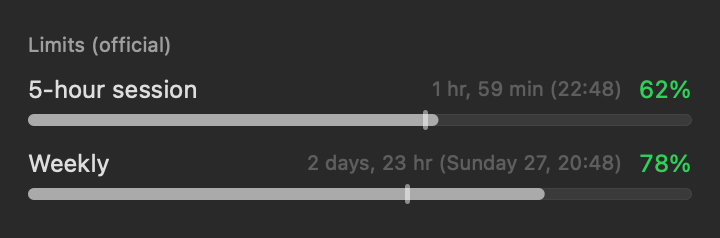
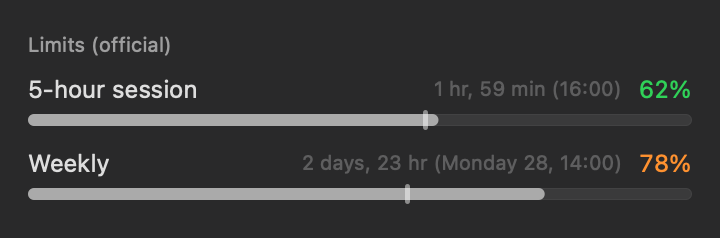
docs: cover usage recap, pace tier colors and save snapshots for 1.9.0
- New usage recap shots (en/ko/ja) rendered from the production RecapCard in
  ScreenshotGenTests, with Gen 1 graduates, plus a tour row in each README (#332).
- Pace-marker shots pick bar and percent colors with PaceTier like quotaRow does
  (#349); the pace row explains the six tiers.
- Settings shots gain automatic backup snapshots under Backup & Transfer (#330)
  and a per-account session key row under Advanced (#346); footer bumped to 1.9.0.
- "Also in the box" lists Pokedex search/filters (#329, #343) and save backups.

diff --git a/Tests/PokeTokenBarTests/ScreenshotGenTests.swift b/Tests/PokeTokenBarTests/ScreenshotGenTests.swift
@@ -148,6 +148,10 @@ final class ScreenshotGenTests: XCTestCase {
             let formatter = DateFormatter()
             formatter.locale = language.displayLocale
             formatter.setLocalizedDateFormatFromTemplate(resetIn <= 6 * 3600 ? "HHmm" : "EEEEdHHmm")
+            // quotaRow 와 같은 규칙으로 단계색을 고른다(#349) — 초록 고정이면 실제 UI 와 갈라진다.
+            let tier = PaceTier.tier(utilization: used, pace: pace, critThreshold: store.critThreshold)
+            let tint = tier?.color ?? .green
+            let percentTint = tier?.percentColor ?? .green
             return VStack(alignment: .leading, spacing: 2) {
                 HStack {
                     Text(name).font(.callout)
@@ -155,9 +159,9 @@ final class ScreenshotGenTests: XCTestCase {
                     (Text("\(reset, style: .relative)") + Text(" (\(formatter.string(from: reset)))"))
                         .font(.caption).foregroundStyle(.tertiary)
                     Text(TokenFormatter.percent(used))
-                        .font(.callout).monospacedDigit().foregroundStyle(Color.green)
+                        .font(.callout).monospacedDigit().foregroundStyle(percentTint)
                 }
-                LimitProgressBar(usedPercent: used, tint: .green, pace: pace)
+                LimitProgressBar(usedPercent: used, tint: tint, pace: pace)
             }
         }
 
@@ -194,6 +198,84 @@ final class ScreenshotGenTests: XCTestCase {
         rep.size = bounds.size
         host.view.cacheDisplay(in: bounds, to: rep)
         return try XCTUnwrap(rep.representation(using: .png, properties: [:]))
+    }
+
+    // MARK: 사용량 리캡
+
+    /// 끝난 한 주를 보여준다(일요일 저녁 기준) — 진행 중인 주는 "지금까지" 비교라 막대가 비어 보인다.
+    /// 졸업 칩은 1세대 진화 끝 종으로 채운다: 포크 풀 밖의 종을 보여주면 안 나오는 걸 광고하게 된다.
+    /// 리캡 카드는 AppKit 컨트롤이 없는 순수 SwiftUI 라 `ImageRenderer` 로 색까지 그대로 나온다.
+    @MainActor
+    func testGenerateUsageRecapScreenshots() throws {
+        guard let directory = ProcessInfo.processInfo.environment["PTB_SCREENSHOT_DIR"] else {
+            throw XCTSkip("PTB_SCREENSHOT_DIR 미지정 — 에셋 생성은 릴리스 때만 실행한다")
+        }
+        var calendar = Calendar(identifier: .gregorian)
+        calendar.timeZone = TimeZone(identifier: "UTC")!
+        calendar.firstWeekday = 2
+        func day(_ month: Int, _ day: Int, hour: Int = 12) -> Date {
+            calendar.date(from: DateComponents(year: 2026, month: month, day: day, hour: hour))!
+        }
+        let dayKey = LocalUsageReader.localDayFormatter(timeZone: calendar.timeZone)
+        // 이번 주(9/14 월–9/20 일)와 지난주 — 전주 대비 칩이 오르는 쪽으로 읽히게 이번 주를 더 크게 둔다.
+        let thisWeek = [4_200_000, 6_800_000, 3_100_000, 7_400_000, 5_200_000, 900_000, 1_600_000]
+        let lastWeek = [3_000_000, 4_100_000, 2_600_000, 5_000_000, 3_900_000, 0, 700_000]
+        var series = [DailyUsage]()
+        for (offset, tokens) in (lastWeek + thisWeek).enumerated() {
+            let key = dayKey.string(from: day(9, 7 + offset))
+            series.append(DailyUsage(date: key, inputTokens: 0, outputTokens: 0, cacheCreationTokens: 0,
+                                     cacheReadTokens: 0, totalTokens: tokens, totalCost: 0, costCoverage: .source))
+        }
+        var ledger = UsageLedger()
+        ledger.merge([DailyUsage(date: dayKey.string(from: day(9, 1)), inputTokens: 0, outputTokens: 0,
+                                 cacheCreationTokens: 0, cacheReadTokens: 0, totalTokens: 0, totalCost: 0,
+                                 costCoverage: .source)] + series)
+
+        func graduate(_ id: String, chain: [Int], names: [String: String], on date: Date,
+                      rarity: Rarity = .common, shiny: Bool = false) -> DexEntry {
+            DexEntry(id: id, baseID: chain[0], finalID: chain.last!, chainOrder: chain, rarity: rarity,
+                     caughtAt: date, isShiny: shiny, names: [chain.last!: names], releasedAt: nil)
+        }
+        let dex = [
+            graduate("lapras", chain: [131], names: ["en": "Lapras", "ko": "라프라스", "ja": "ラプラス"],
+                     on: day(9, 17), rarity: .rare),
+            graduate("gyarados", chain: [129, 130], names: ["en": "Gyarados", "ko": "갸라도스", "ja": "ギャラドス"],
+                     on: day(9, 15), shiny: true),
+            graduate("raichu", chain: [25, 26],
+                     names: ["en": "Raichu", "ko": "라이츄", "ja": "ライチュウ"], on: day(9, 18)),
+        ]
+        let dexJSON = String(decoding: try JSONEncoder().encode(dex), as: UTF8.self)
+
+        for (language, suffix) in [(AppLanguage.en, ""), (.ko, "-ko"), (.ja, "-ja")] {
+            let url = FileManager.default.temporaryDirectory.appendingPathComponent("recap-shot-\(UUID().uuidString).json")
+            defer { try? FileManager.default.removeItem(at: url) }
+            try Data(#"{"installBaselineSet":true,"usedSinceInstall":1000,"lastDate":"d","dex":\#(dexJSON)}"#.utf8)
+                .write(to: url)
+            let suite = "RecapShot-\(UUID().uuidString)"
+            let defaults = try XCTUnwrap(UserDefaults(suiteName: suite))
+            defer { defaults.removePersistentDomain(forName: suite) }
+            ledger.save(to: defaults)
+            let store = UsageStore(providers: [], autoRefresh: false, defaults: defaults)
+            let companion = CompanionStore(fileURL: url, defaults: defaults)
+            companion.setLanguage(language)
+            let content = RecapContent(store: store, companion: companion, scope: .week, offset: 0,
+                                       now: day(9, 20, hour: 21), calendar: calendar)
+            let view = RecapCard(content: content)
+                .padding(.horizontal, PopoverMetrics.padding)
+                .padding(.vertical, 16)
+                .frame(width: PopoverMetrics.width)
+                .background(Color(red: 41 / 255, green: 41 / 255, blue: 42 / 255))
+                .environment(\.colorScheme, .dark)
+                .environment(\.locale, language.displayLocale)
+            let renderer = ImageRenderer(content: view)
+            renderer.scale = 2
+            let image = try XCTUnwrap(renderer.nsImage)
+            let rep = try XCTUnwrap(image.tiffRepresentation.flatMap(NSBitmapImageRep.init(data:)))
+            let data = try XCTUnwrap(rep.representation(using: .png, properties: [:]))
+            let out = URL(fileURLWithPath: directory).appendingPathComponent("screenshot-usage-recap\(suffix).png")
+            try data.write(to: out)
+            print("wrote \(out.path) (\(data.count) bytes)")
+        }
     }
 
     @MainActor

diff --git a/scripts/gen-settings-screenshots.py b/scripts/gen-settings-screenshots.py
@@ -23,7 +23,7 @@ REPO = os.path.dirname(os.path.dirname(os.path.abspath(__file__)))
 OUT = os.path.join(REPO, "assets")
 TMP = os.path.join(REPO, "build")
 CHROME = "/Applications/Google Chrome.app/Contents/MacOS/Google Chrome"
-VERSION = "1.8.0"
+VERSION = "1.9.0"
 
 # ko, en, ja — Localization.swift 의 t(ko, en, ja, es) 순서에서 es 만 뺐다.
 S = {
@@ -114,6 +114,21 @@ S = {
                    "The key is stored in this Mac's app folder as an owner-only file (not encrypted). Logging out in your browser invalidates it immediately.",
                    "キーはこの Mac のアプリフォルダに本人のみ読み取り可能なファイルとして保存されます(暗号化なし)。ブラウザでログアウトすると即時無効になります。"),
  "orgLabel":      ("조직", "Organization", "組織"),
+ "perAcctNote":   ("기본 Claude 계정(~/.claude)에 적용됩니다. 다른 계정은 아래에서 각자 키를 넣을 수 있어요.",
+                   "Applies to the default Claude account (~/.claude). Each other account can have its own key below.",
+                   "デフォルトの Claude アカウント（~/.claude）に適用されます。ほかのアカウントは下でそれぞれキーを設定できます。"),
+ "acctKey":       ("work@example.com 세션 키", "Session key for work@example.com", "work@example.com のセッションキー"),
+ "acctKeyFolder": ("~/.claude-work", "~/.claude-work", "~/.claude-work"),
+ "snapTitle":     ("자동 백업 (스냅샷)", "Automatic Backups (Snapshots)", "自動バックアップ（スナップショット）"),
+ "snapHint":      ("진행 상태의 로컬 복원 지점을 즉시 저장해요 (최근 10개 보존)",
+                   "Saves an instant local restore point of your progress (keeps up to 10)",
+                   "現在の進行状況の復元ポイントを即座に保存します（最新10件を保持）"),
+ "snapBtn":       ("스냅샷 만들기", "Create snapshot", "スナップショットを作成"),
+ "restoreBtn":    ("복원", "Restore", "復元"),
+ "snap1Date":     ("2026. 9. 25. 오전 9:12", "Sep 25, 2026 at 9:12 AM", "2026/09/25 9:12"),
+ "snap1Meta":     ("도감 64마리 · 누적 1.2B", "Pokédex 64 · 1.2B lifetime", "図鑑 64匹 · 累計 1.2B"),
+ "snap2Date":     ("2026. 9. 24. 오후 8:40", "Sep 24, 2026 at 8:40 PM", "2026/09/24 20:40"),
+ "snap2Meta":     ("도감 63마리 · 누적 1.1B", "Pokédex 63 · 1.1B lifetime", "図鑑 63匹 · 累計 1.1B"),
  "orgValue":      ("회사 Team Plan", "Company Team Plan", "会社 Team Plan"),
  "save":          ("저장", "Save", "保存"),
  "delete":        ("삭제", "Delete", "削除"),
@@ -213,6 +228,14 @@ def html(lang, advanced=False):
     def sec(title):
         return f'<div class="sec">{title}</div>'
 
+    # 스냅샷 행의 컴패니언 썸네일 — 앱이 받아 둔 스프라이트 캐시를 그대로 쓴다(없으면 빈 칸).
+    def sprite(species_id):
+        path = os.path.expanduser(
+            f"~/Library/Application Support/PikaTokenBar/sprites/{species_id}-s.png")
+        img = f'<img src="file://{path}" style="width:28px;height:28px;image-rendering:pixelated">' \
+            if os.path.exists(path) else '<span style="width:28px"></span>'
+        return img
+
     slider = lambda pct: f'<div class="sld"><i style="left:calc({pct}% - 7px)"></i></div>'
 
     # 고급 섹션을 펼친 모습 — 세션 키 행이 여기 산다(앱에서도 이 disclosure 안에 있다).
@@ -220,11 +243,16 @@ def html(lang, advanced=False):
         f'<div class="row"><div class="lbl">{s("advancedRow")}</div><span class="chev">⌄</span></div>',
         row(f'<div class="ttl"><span>{s("sessionKey")}</span>'
             f'<span class="badge">{s("sessionKeySaved")}</span></div>',
-            "", s("sessionKeyHint")),
+            "", s("sessionKeyHint") + " " + s("perAcctNote")),
         f'<div class="row"><div class="field">••••••••</div>'
         f'<div class="btn">{s("save")}</div><div class="btn">{s("delete")}</div></div>',
         row(s("orgLabel"), pill(s("orgValue"))),
         f'<div class="note" style="padding:6px 14px 8px">{s("sessionKeyNote")}</div>',
+        # 추가 계정마다 자기 세션 키(#346) — 제목은 계정 이메일, 폴더는 두 로그인을 구분하는 보조 줄.
+        row(f'<div class="ttl"><span>{s("acctKey")}</span>'
+            f'<span class="badge">{s("sessionKeySaved")}</span></div>', "", s("acctKeyFolder")),
+        f'<div class="row"><div class="field">••••••••</div>'
+        f'<div class="btn">{s("save")}</div><div class="btn">{s("delete")}</div></div>',
         row(s("keychainOff"), tog(False), s("keychainOffHint")),
         row(s("refreshToken"), f'<div class="btn">{s("refreshToken")}</div>', s("refreshTokenHint")),
         # 추가 Claude 계정 — ~/.claude-* 는 자동 감지, 다른 위치의 설정 폴더만 여기 적는다.
@@ -310,6 +338,13 @@ def html(lang, advanced=False):
         card(
             row(s("exportLabel"), f'<div class="btn">{s("exportBtn")}</div>', s("exportHint")),
             row(s("importLabel"), f'<div class="btn">{s("importBtn")}</div>', s("importHint")),
+            row(s("snapTitle"), f'<div class="btn">{s("snapBtn")}</div>', s("snapHint")),
+            row(f'<div style="display:flex;align-items:center;gap:8px">{sprite(25)}'
+                f'<div><div>{s("snap1Date")}</div><div class="h">{s("snap1Meta")}</div></div></div>',
+                f'<div class="btn">{s("restoreBtn")}</div>'),
+            row(f'<div style="display:flex;align-items:center;gap:8px">{sprite(25)}'
+                f'<div><div>{s("snap2Date")}</div><div class="h">{s("snap2Meta")}</div></div></div>',
+                f'<div class="btn">{s("restoreBtn")}</div>'),
         ),
         sec(s("advanced")),
         card(row(f'<span class="chev">›</span>&nbsp; {s("advancedRow")}', "")),

diff --git a/README.ko.md b/README.ko.md
@@ -164,7 +164,14 @@ Pi는 모델 여러 개를 세션 로그 하나로 흘려보낼 수 있습니다
 <td width="45%" align="center"><img src="assets/screenshot-pace-marker-ko.png" width="300" alt="총량이 아니라 페이스를 보기"></td>
 <td width="55%" valign="middle">
 <h3>총량이 아니라 페이스를 보기</h3>
-각 한도 막대에는 고르게 썼다면 지금쯤 도달했을 지점에 얇은 눈금이 있습니다. 채움이 눈금을 넘으면 리셋 전에 한도가 바닥난다는 뜻입니다 — 4시간 남은 62%와 20분 남은 62%의 차이입니다. 창 길이를 알 수 없는 행에는 눈금이 없습니다.
+각 한도 막대에는 고르게 썼다면 지금쯤 도달했을 지점에 얇은 눈금이 있습니다. 채움이 눈금을 넘으면 리셋 전에 한도가 바닥난다는 뜻입니다 — 4시간 남은 62%와 20분 남은 62%의 차이입니다. 창 길이를 알 수 없는 행에는 눈금이 없습니다. 막대와 퍼센트는 페이스에 따라 6단계로 색이 바뀝니다 — 한참 여유로우면 파랑, 페이스대로면 초록, 노랑·주황을 거쳐 한참 빠르면 빨강 — 어느 창을 아껴 써야 하는지 한눈에 보입니다.
+</td>
+</tr>
+<tr>
+<td width="45%" align="center"><img src="assets/screenshot-usage-recap-ko.png" width="300" alt="한 주의 사용량 돌아보기"></td>
+<td width="55%" valign="middle">
+<h3>지난 한 주·한 달·한 해 돌아보기</h3>
+팝오버의 돌아보기 버튼을 누르면 이번 주·달·해를 포켓몬 도감 스타일 카드로 보여 줍니다 — 화살표로 이전 기간으로 넘길 수 있습니다. 합계, 날(또는 달)마다의 게이지, 이전 기간 대비 변화(진행 중이면 같은 일수끼리), 최고의 날, 최장 연속, 그 기간에 졸업한 포켓몬이 나옵니다. 기록은 올해와 작년분을 로컬에 보관합니다.
 </td>
 </tr>
 </table>
@@ -185,7 +192,8 @@ Pi는 모델 여러 개를 세션 로그 하나로 흘려보낼 수 있습니다
 - **이상한 사탕 한꺼번에 쓰기** — 여러 개를 한 번에 쓰고, 확정 전에 컴패니언이 얼마나 자랄지 미리 봅니다.
 - **소진 예측** — 현재 5시간 창이 100%에 도달할 시각 예측.
 - **인앱 업데이트** — 원클릭 업데이트 확인, 설정에 현재 버전 표시.
-- **사용량 돌아보기** — 주·월·연 단위로 지난 기간까지 넘겨 보는 포켓몬 도감 스타일 요약(합계·게이지·이전 기간과 비교(진행 중이면 같은 일수끼리)·최고의 날·최장 연속·졸업). 기록은 올해와 작년분을 로컬에 보관.
+- **도감 검색·필터** — 이름이나 번호로 검색하고, 도감과 포획 기록을 정렬하고 희귀도·이로치로 거를 수 있습니다. 도감 번호는 희귀도 색으로 표시됩니다.
+- **세이브 자동 백업** — 세이브를 최소 12시간마다 로컬 스냅샷으로 남깁니다(최근 10개 보존). 불러오지 못하는 세이브는 따로 보관하고 최신 스냅샷에서 복구하며, 설정 → 백업 & 이전에서 스냅샷을 골라 바로 복원할 수 있습니다.
 
 ## 지원 도구
 

diff --git a/README.md b/README.md
@@ -163,7 +163,14 @@ Reset countdowns include the clock time, and the colored percentage stays aligne
 <td width="45%" align="center"><img src="assets/screenshot-pace-marker.png" width="300" alt="See the pace, not just the total"></td>
 <td width="55%" valign="middle">
 <h3>See the pace, not just the total</h3>
-Each quota bar carries a thin tick where an even burn would be by now. Fill past the tick means the window runs out before it resets — the difference between 62% with four hours left and 62% with twenty minutes left. Rows whose window length is unknown simply have no tick.
+Each quota bar carries a thin tick where an even burn would be by now. Fill past the tick means the window runs out before it resets — the difference between 62% with four hours left and 62% with twenty minutes left. Rows whose window length is unknown simply have no tick. The bar and percentage are colored by pace in six tiers — blue well under, green on pace, through yellow and orange to red well over — so you can tell at a glance which window needs slowing down.
+</td>
+</tr>
+<tr>
+<td width="45%" align="center"><img src="assets/screenshot-usage-recap.png" width="300" alt="Usage recap for a week"></td>
+<td width="55%" valign="middle">
+<h3>Look back on any week, month or year</h3>
+The recap button in the popover opens a Pokédex-style card for this week, month or year — step back to earlier periods with the arrows. It shows the total, a meter per day or month, the change from the previous period (day for day while the current one is still running), your best day, best streak, and the Pokémon you graduated. History is kept locally for this year and the last.
 </td>
 </tr>
 </table>
@@ -184,7 +191,8 @@ Each quota bar carries a thin tick where an even burn would be by now. Fill past
 - **Bulk Rare Candy** — use several Rare Candies at once, with a preview of how far the companion will grow before you confirm.
 - **Burn-rate forecast** — projects when the current 5h window hits 100%.
 - **In-app updates** — one-click update check; current version shown in Settings.
-- **Usage recap** — a Pokédex-style recap of any week, month or year you step back to (total, meters, comparison with the previous period, day for day while it is still running, best day, best streak, graduations). History is kept locally for this year and the last.
+- **Pokédex search and filters** — search by name or number, sort, and filter the Pokédex and Catch Log by rarity or shiny. Dex numbers are colored by rarity.
+- **Automatic save backups** — the save is snapshotted locally at least every 12 hours (newest 10 kept). A save that fails to load is set aside and restored from the latest snapshot, and Settings → Backup & Transfer lists the snapshots for a one-click restore.
 
 ## Works with
 
